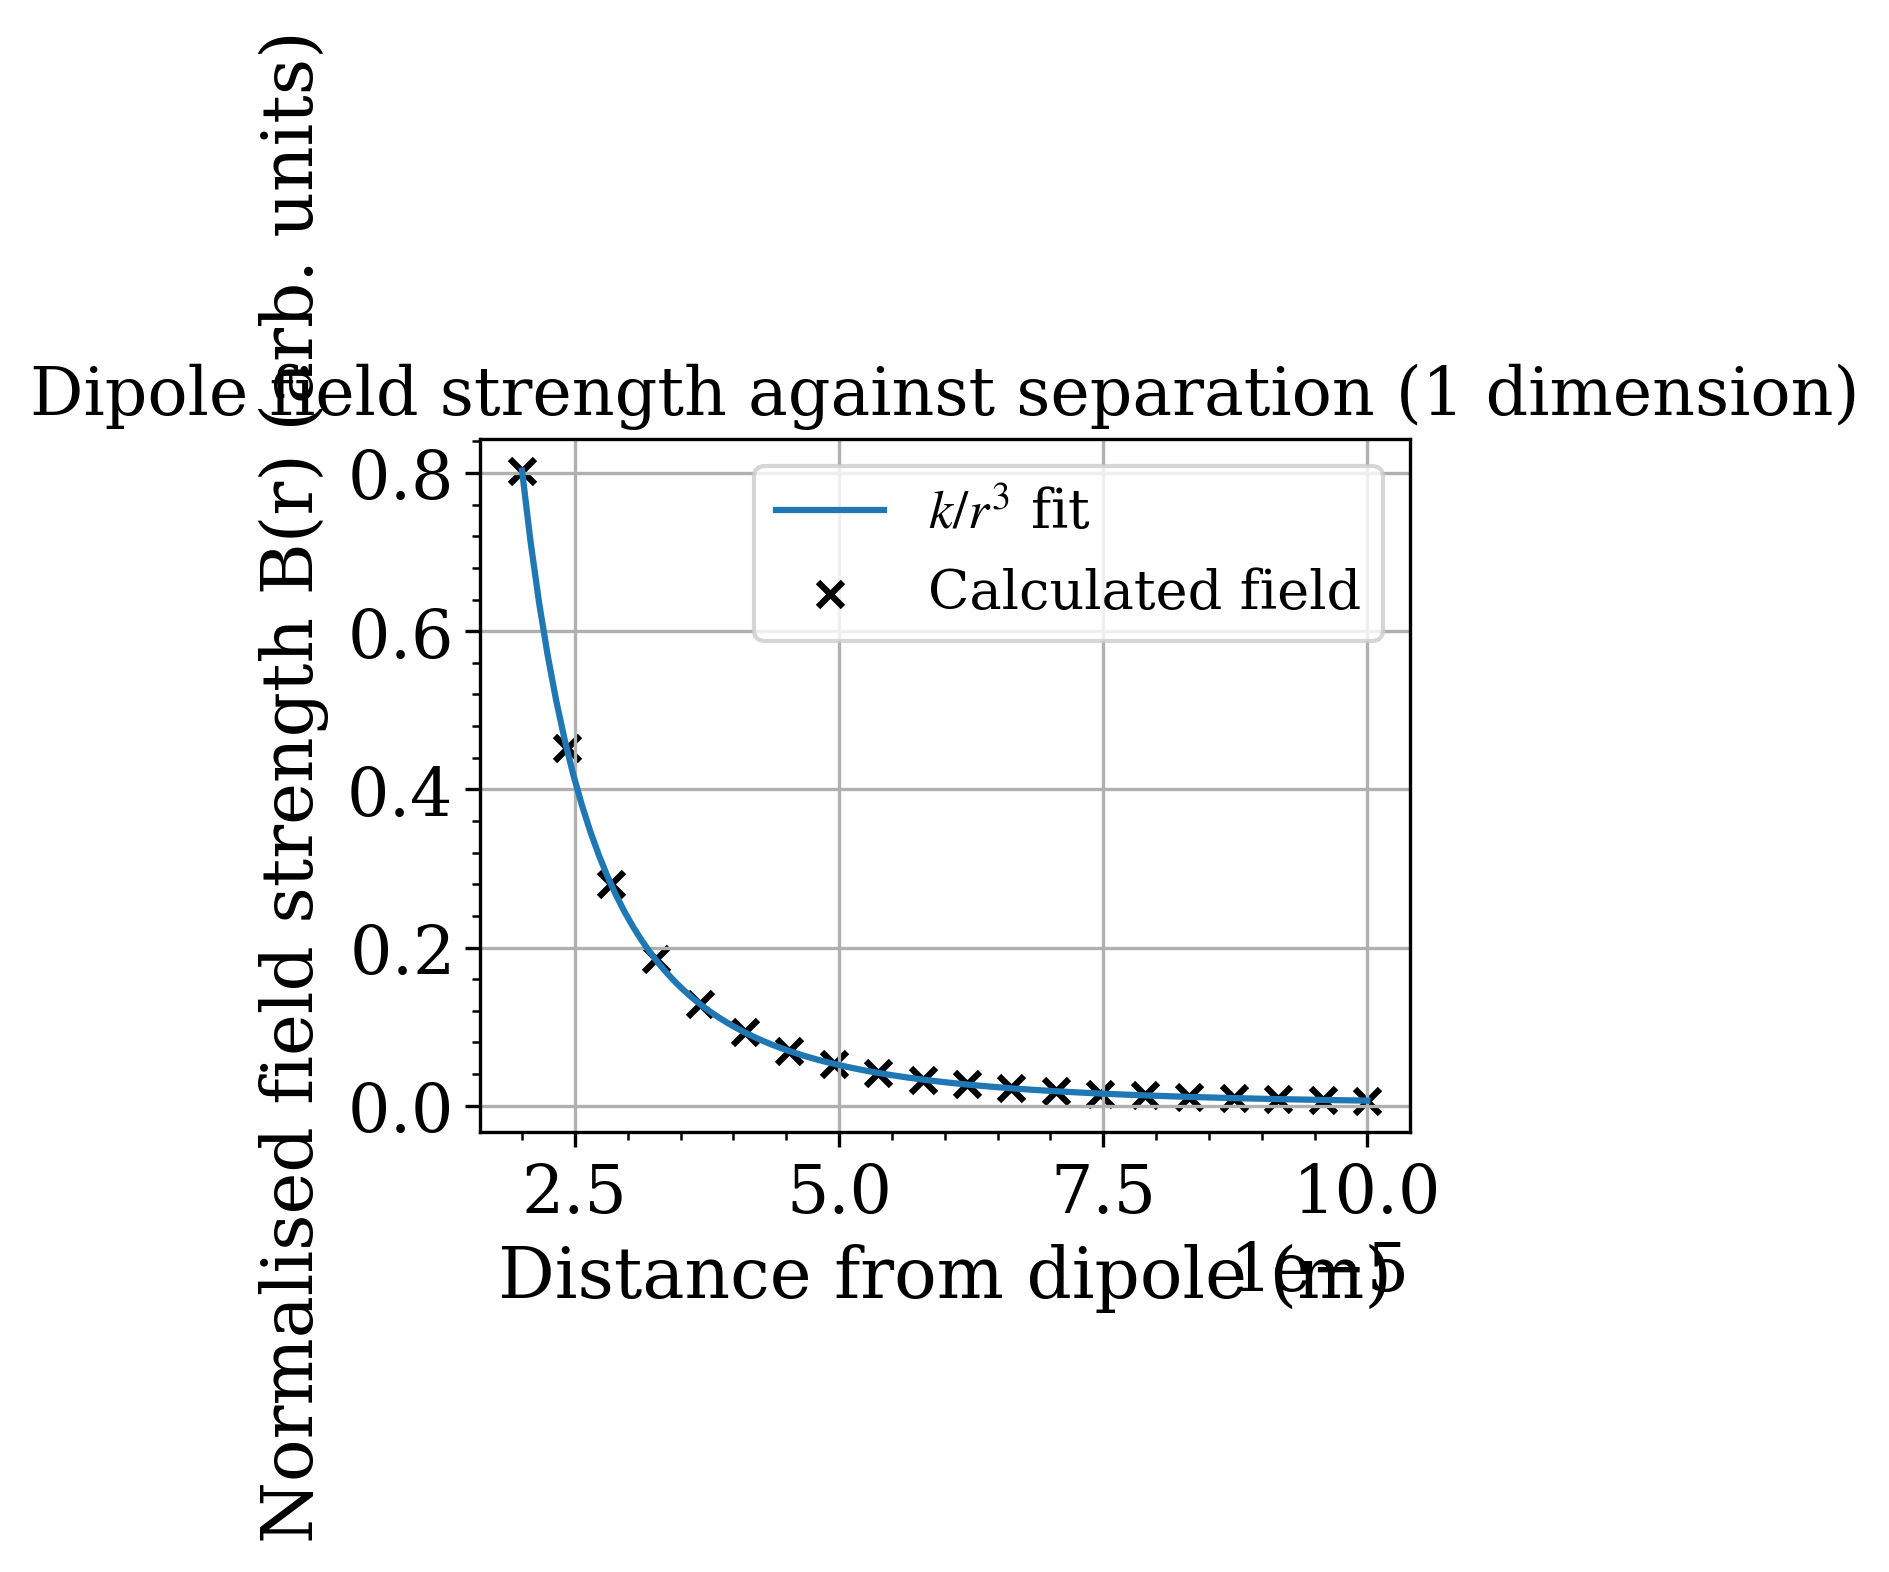
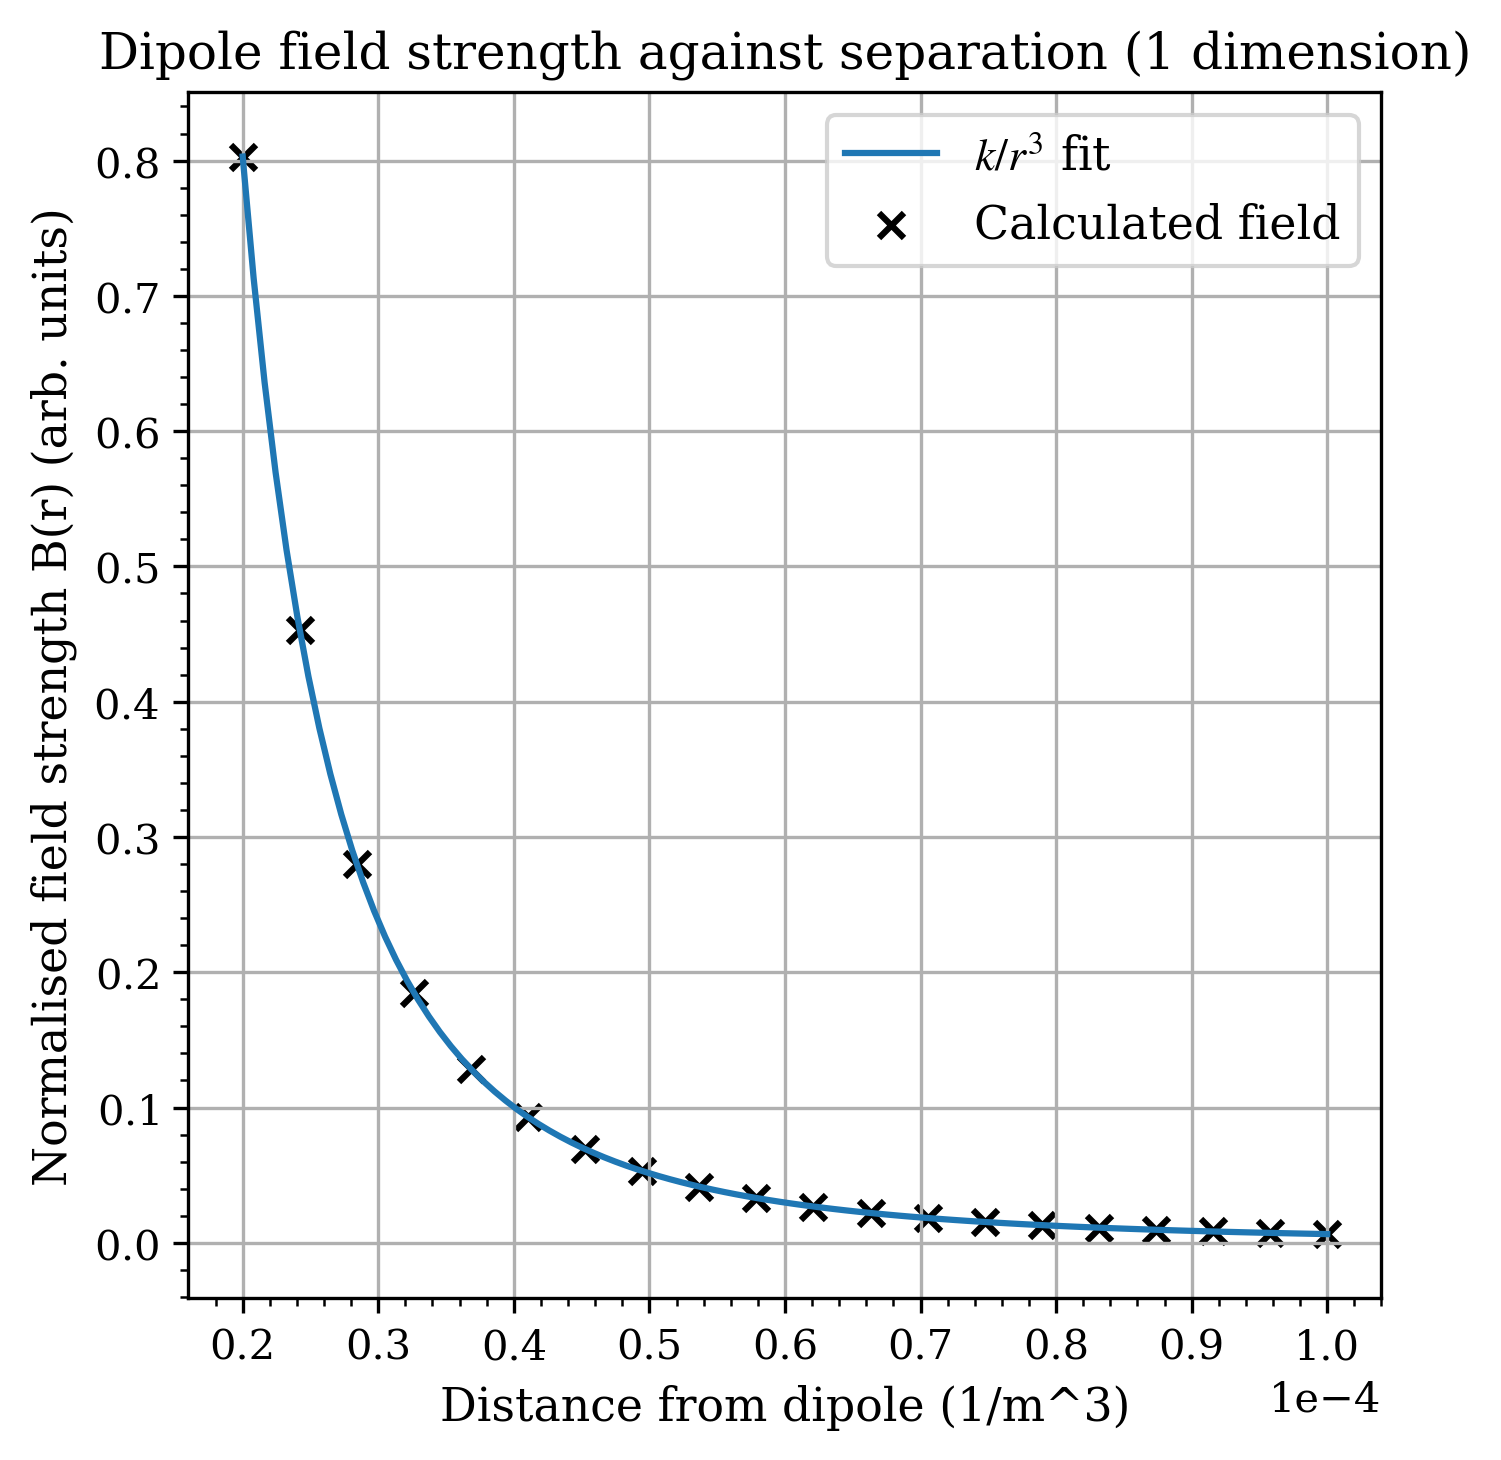
Fixed 1d normalised separation graphs for use in final report

diff --git a/scripts/check_model.py b/scripts/check_model.py
@@ -84,7 +84,7 @@ def check_precession():
     lifes = np.linspace(0, 20e-6, 100)
 
     fig, ax = plt.subplots()
-    ax.plot(lifes, polarisation_func(lifes, larmour))
+    ax.plot(lifes, polarisation_func(lifes, larmour), label="precession")
     ax.legend(loc="best")
     ax.set_xlabel("Time (s)")
     ax.set_ylabel("Polarisation")
@@ -120,19 +120,22 @@ def check_1d_dipole():
     fit_targets = np.linspace(min(targets), max(targets), 100)
 
     # PLOT
-    fig, ax = plt.subplots()
+    fig, ax = plt.subplots(1, 1)
+    plt.tight_layout()
+    fig, ax = func.make_fancy_plot(fig, ax)
     ax.scatter(targets, normed_forces, label="Calculated field", marker="x", color="k")
     ax.plot(fit_targets, cubic(fit_targets, *popt), label="$k/r^3$ fit")
-    ax.set_ylim(func.get_limits(normed_forces))
+    # ax.set_ylim(func.get_limits(normed_forces))
+    # ax.set_ylim(0, 1)
     ax.set_xlim(func.get_limits(targets))
     ax.legend(loc="best")
-    ax.set_xlabel("Distance from dipole (m)")
+    ax.set_xlabel("Distance from dipole (1/m^3)")
     ax.set_ylabel("Normalised field strength B(r) (arb. units)")
     ax.set_title("Dipole field strength against separation (1 dimension)")
-    fig, ax = func.make_fancy_plot(fig, ax)
-    ax.ticklabel_format(axis="x", style="sci", scilimits=(-5, -5))
+
+    ax.ticklabel_format(axis="x", style="sci", scilimits=(0, 0))
     ax.grid()
-    plt.savefig("images/1d_field.png", bbox_inches="tight", dpi=300)
+    fig.savefig("images/1d_field.png", bbox_inches="tight", dpi=300)
 
 
 def mag_field_1d(source, target):
